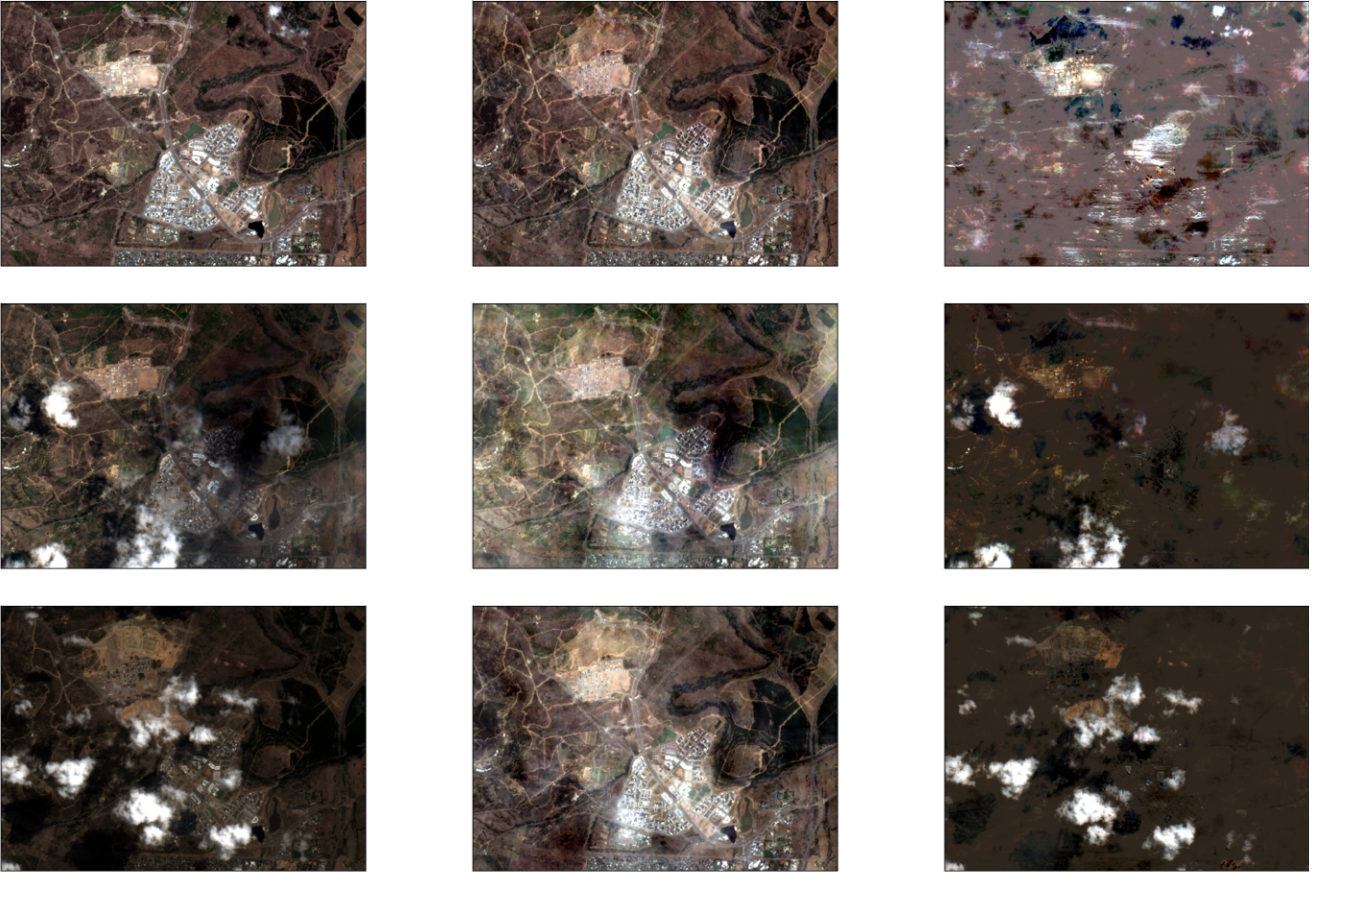
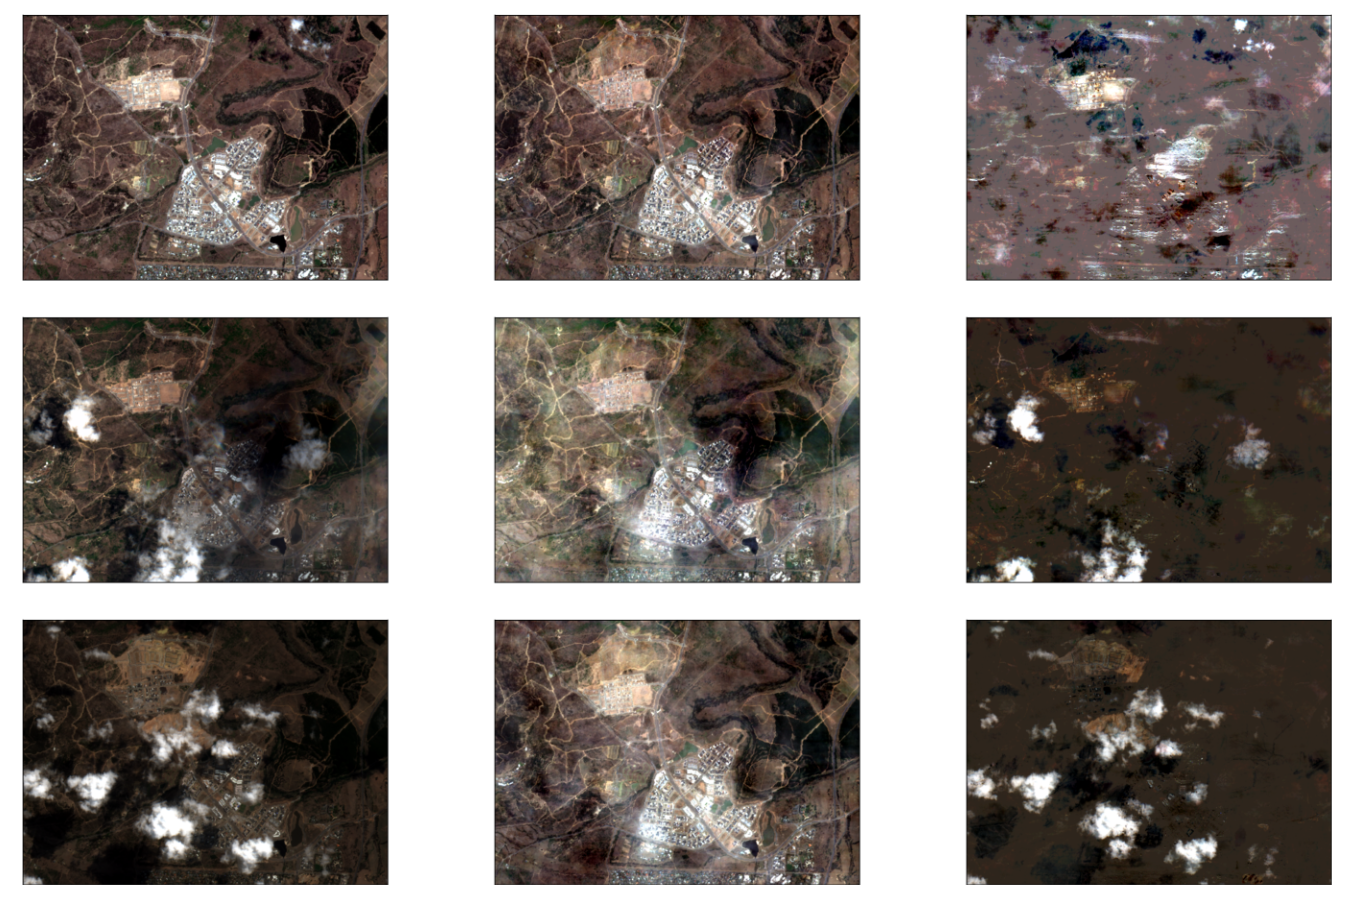
Add example image

diff --git a/README.md b/README.md
@@ -1,3 +1,5 @@
 # Online Tensor Robust Principal Component Analysis
 
 I produced these algorithsm that recovering data structures that have been corrupted by noise as part of my undergraduate [thesis](https://openresearch-repository.anu.edu.au/handle/1885/170630). The trpca algorithm is similar to [this](https://github.com/canyilu/Tensor-Robust-Principal-Component-Analysis-TRPCA) but in python instead of matlab and works for tensors of any dimension. The otrpca algorithm is similar to [this](http://www.merl.com/publications/docs/TR2016-004.pdf), but this one works for tensors of any dimension (so can be applied to colour images, instead of just black and white). Here's an example that was made using 15 cloud-affected satellite images:
+
+![](/example.png?raw=true)
